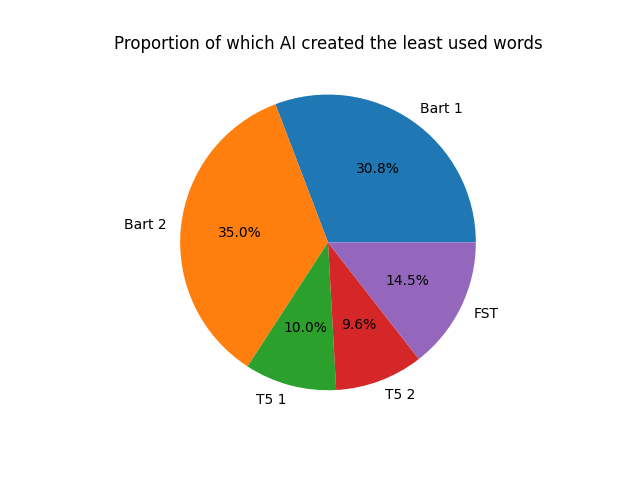
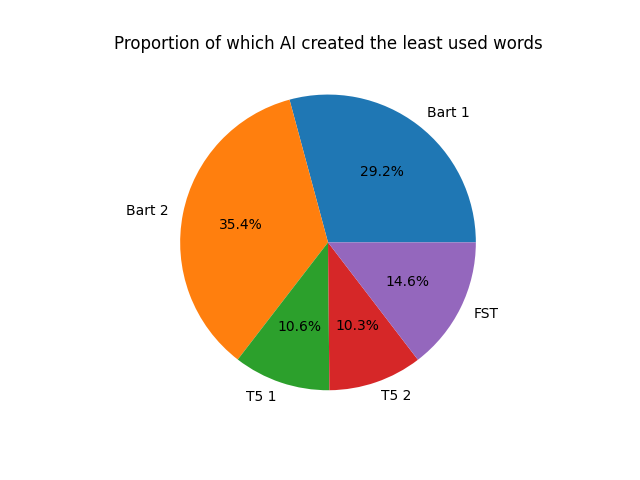
[FIX] lower all words

diff --git a/src/charts/data_parser.py b/src/charts/data_parser.py
@@ -24,6 +24,7 @@ def parser():
     for createur in datasets:
         for _, data_row in datasets[createur].iterrows():
             string = data_row['caption']
+            string = string.lower()
             tab = string.split(' ')
 
             for i in range(len(tab)):

diff --git a/src/charts/histogram_most_used_words_compared.py b/src/charts/histogram_most_used_words_compared.py
@@ -41,6 +41,7 @@ axs[3].set_title('T5_2')
 axs[4].bar(list(data_FST.keys())[:10], list(data_FST.values())[:10])
 axs[4].set_title('FST')
 
+plt.xticks(rotation=45)
 plt.suptitle('Top 10 Most Used Words by Each IA compared to the others')
 plt.tight_layout()
 plt.show()
